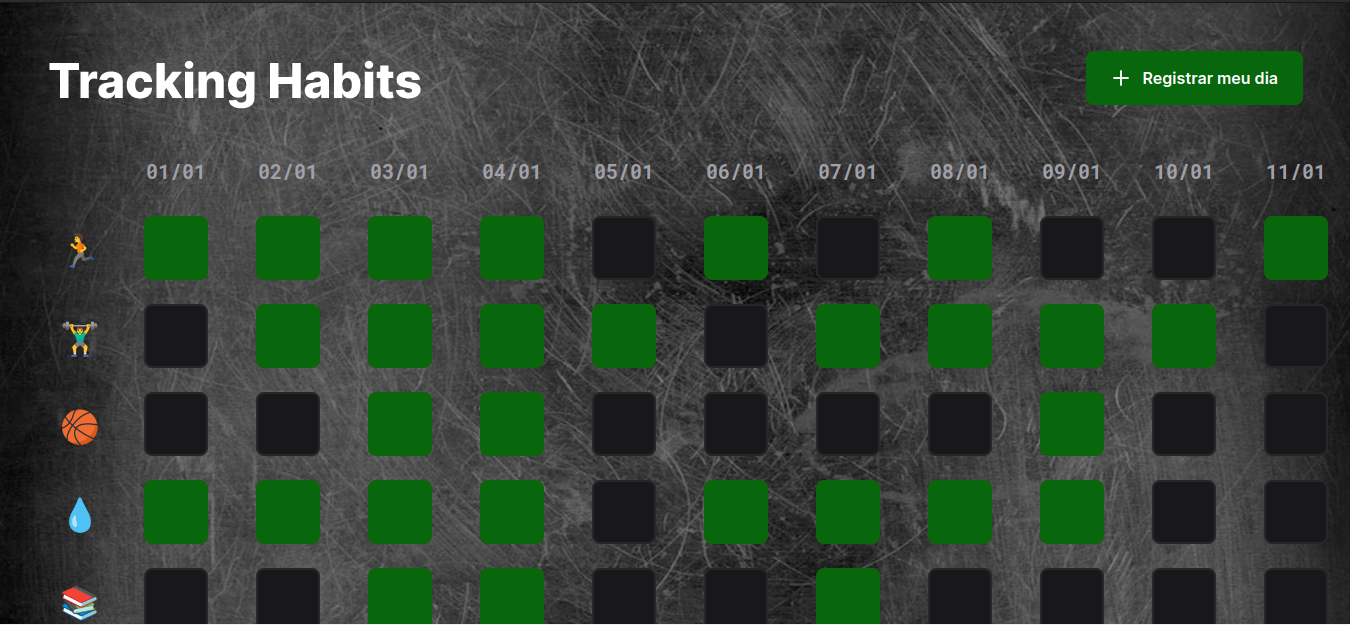
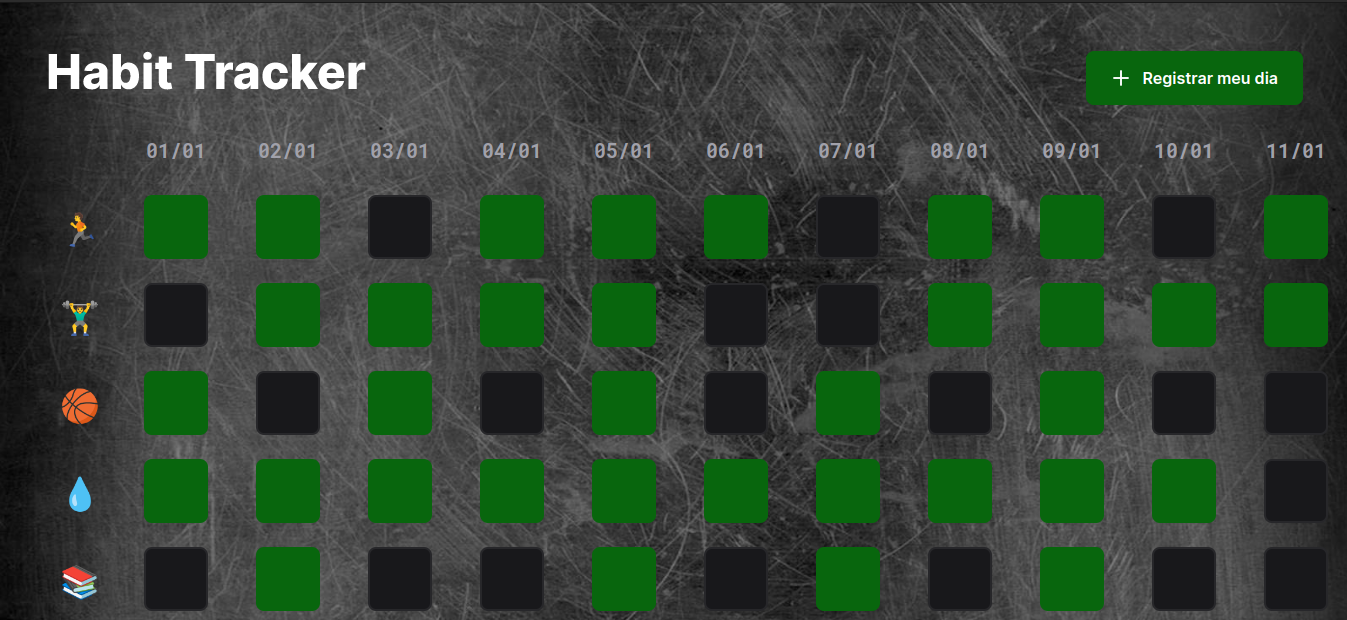
ProjetoHT

diff --git a/index.html b/index.html
@@ -10,7 +10,7 @@
     <meta charset="UTF-8" />
     <meta http-equiv="X-UA-Compatible" content="IE=edge" />
     <meta name="viewport" content="width=device-width, initial-scale=1.0" />
-    <title>Tracking Habits</title>
+    <title>Habit Tracker</title>
 
     <link rel="stylesheet" href="./style.css" />
   </head>

diff --git a/script.js b/script.js
@@ -39,7 +39,5 @@ function save() {
   ],
 } */
 
-const data = JSON.parse(localStorage.getItem("MyHabits@Alejandro")) || {}
-
 nlwSetup.setData(data)
 nlwSetup.load()

diff --git a/README.md b/README.md
@@ -1,4 +1,4 @@
-<h1 align="center"> Tracking Habits </h1>
+<h1 align="center"> Habit Tracker </h1>
 
 <br>
 
